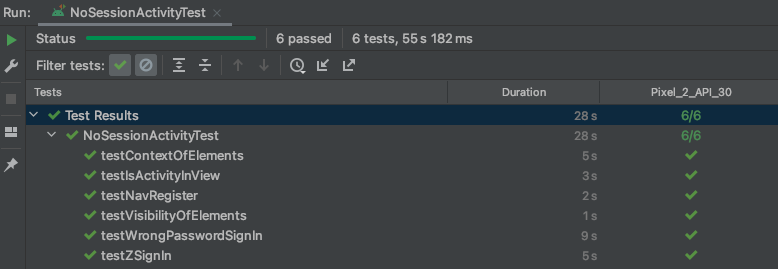
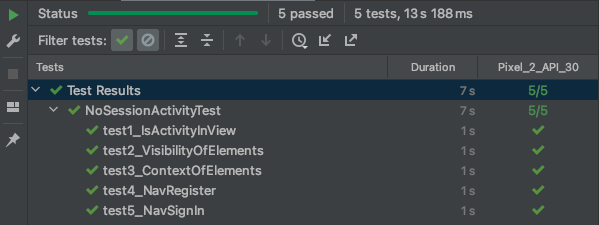
Modify UI tests

diff --git a/app/src/test/java/au/edu/anu/cecs/COMP6442GroupAssignment/HeatSpeechRemoveTest.java b/app/src/test/java/au/edu/anu/cecs/COMP6442GroupAssignment/HeatSpeechRemoveTest.java
@@ -1,8 +1,9 @@
 package au.edu.anu.cecs.COMP6442GroupAssignment;
+
+import static org.junit.Assert.assertEquals;
+
 import org.junit.BeforeClass;
 import org.junit.Test;
-
-import static org.junit.Assert.*;
 
 import au.edu.anu.cecs.COMP6442GroupAssignment.util.DataStructure.AVLTree;
 import au.edu.anu.cecs.COMP6442GroupAssignment.util.Parser.HateSpeechParser.Parser;
@@ -12,44 +13,44 @@ public class HeatSpeechRemoveTest {
     static AVLTree<String> swearwords;
 
     @BeforeClass
-    public static void init(){
+    public static void init() {
         swearwords = new AVLTree<>();
         swearwords.insert("fuck");
         swearwords.insert("shit");
         swearwords.insert("asshole");
         swearwords.insert("ass");
     }
+
     @Test
-    public void noMaskTest(){
+    public void noMaskTest() {
 
         String withoutHeatSpeech1 = "I am really happy!";
-        Parser parser1 = new Parser(new Tokenizer(swearwords,withoutHeatSpeech1));
-        assertEquals(withoutHeatSpeech1,parser1.parse());
-        String withoutHeatSpeech2= "Hey, how are you!";
-        Parser parser2 = new Parser(new Tokenizer(swearwords,withoutHeatSpeech2));
-        assertEquals(withoutHeatSpeech2,parser2.parse());
+        Parser parser1 = new Parser(new Tokenizer(swearwords, withoutHeatSpeech1));
+        assertEquals(withoutHeatSpeech1, parser1.parse());
+        String withoutHeatSpeech2 = "Hey, how are you!";
+        Parser parser2 = new Parser(new Tokenizer(swearwords, withoutHeatSpeech2));
+        assertEquals(withoutHeatSpeech2, parser2.parse());
     }
 
     @Test
-    public void MaskTest(){
+    public void MaskTest() {
         String HeatSpeech1 = "fuck you!";
         String result1 = "*** you!";
-        Parser parser1 = new Parser(new Tokenizer(swearwords,HeatSpeech1));
-        assertEquals(result1,parser1.parse());
-        String HeatSpeech2= "Hey, asshole";
+        Parser parser1 = new Parser(new Tokenizer(swearwords, HeatSpeech1));
+        assertEquals(result1, parser1.parse());
+        String HeatSpeech2 = "Hey, asshole";
         String result2 = "Hey, ***";
-        Parser parser2 = new Parser(new Tokenizer(swearwords,HeatSpeech2));
-        assertEquals(result2,parser2.parse());
+        Parser parser2 = new Parser(new Tokenizer(swearwords, HeatSpeech2));
+        assertEquals(result2, parser2.parse());
     }
 
-    @Test public void LongSentenceTest(){
+    @Test
+    public void LongSentenceTest() {
         String HeatSpeech1 = "Hey! you know what? I really wanna fuck you, you are just a piece of shit and I just think I am the best! ";
         String result1 = "Hey! you know what? I really wanna *** you, you are just a piece of *** and I just think I am the best! ";
-        Parser parser1 = new Parser(new Tokenizer(swearwords,HeatSpeech1));
-        assertEquals(result1,parser1.parse());
+        Parser parser1 = new Parser(new Tokenizer(swearwords, HeatSpeech1));
+        assertEquals(result1, parser1.parse());
     }
-
-
 
 
 }

diff --git a/app/src/androidTest/java/au/edu/anu/cecs/COMP6442GroupAssignment/NoSessionActivityTest.java b/app/src/androidTest/java/au/edu/anu/cecs/COMP6442GroupAssignment/NoSessionActivityTest.java
@@ -42,12 +42,12 @@ public class NoSessionActivityTest {
     }
 
     @Test
-    public void testIsActivityInView() {
+    public void test1_IsActivityInView() {
         onView(withId(R.id.no_session)).check(matches(isDisplayed()));
     }
 
     @Test
-    public void testVisibilityOfElements() {
+    public void test2_VisibilityOfElements() {
         int[] ids = new int[]{R.id.imageView2, R.id.textView, R.id.main_sign_in, R.id.main_register,
                 R.id.textView4};
 
@@ -57,7 +57,7 @@ public class NoSessionActivityTest {
     }
 
     @Test
-    public void testContextOfElements() {
+    public void test3_ContextOfElements() {
         onView(withId(R.id.textView)).check(matches(withText(R.string.welcome_to)));
         onView(withId(R.id.main_sign_in)).check(matches(withText(R.string.sign_in)));
         onView(withId(R.id.main_register)).check(matches(withText(R.string.register)));
@@ -65,39 +65,14 @@ public class NoSessionActivityTest {
     }
 
     @Test
-    public void testWrongPasswordSignIn() {
-        onView(withId(R.id.main_sign_in)).perform(click());
-        onView(withId(R.id.activity_sign_in)).check(matches(isDisplayed()));
-
-        onView(withId(R.id.email_signin)).check(matches(withHint(R.string.email)));
-        onView(withId(R.id.password_signin)).check(matches(withHint(R.string.password)));
-        onView(withId(R.id.signin)).check(matches(withText(R.string.sign_in)));
-
-        onView(withId(R.id.email_signin)).perform(typeText("qinyu.zhao@anu.edu.au"));
-        onView(withId(R.id.password_signin)).perform(typeText("123555")).perform(closeSoftKeyboard());
-        onView(withId(R.id.signin)).perform(click());
-
-        FirebaseUser currentUser = FirebaseAuth.getInstance().getCurrentUser();
-        assert currentUser == null;
-    }
-
-    @Test
-    public void testZSignIn() {
-        onView(withId(R.id.main_sign_in)).perform(click());
-        onView(withId(R.id.activity_sign_in)).check(matches(isDisplayed()));
-
-        onView(withId(R.id.email_signin)).check(matches(withHint(R.string.email)));
-        onView(withId(R.id.password_signin)).check(matches(withHint(R.string.password)));
-        onView(withId(R.id.signin)).check(matches(withText(R.string.sign_in)));
-
-        onView(withId(R.id.email_signin)).perform(typeText("qinyu.zhao@anu.edu.au"));
-        onView(withId(R.id.password_signin)).perform(typeText("123456")).perform(closeSoftKeyboard());
-        onView(withId(R.id.signin)).perform(click());
-    }
-
-    @Test
-    public void testNavRegister() {
+    public void test4_NavRegister() {
         onView(withId(R.id.main_register)).perform(click());
         onView(withId(R.id.register)).check(matches(isDisplayed()));
+    }
+
+    @Test
+    public void test5_NavSignIn() {
+        onView(withId(R.id.main_sign_in)).perform(click());
+        onView(withId(R.id.activity_sign_in)).check(matches(isDisplayed()));
     }
 }

diff --git a/app/src/androidTest/java/au/edu/anu/cecs/COMP6442GroupAssignment/SessionActivityTest.java b/app/src/androidTest/java/au/edu/anu/cecs/COMP6442GroupAssignment/SessionActivityTest.java
@@ -22,13 +22,17 @@ import com.google.firebase.auth.FirebaseAuth;
 import com.google.firebase.auth.FirebaseUser;
 
 import org.hamcrest.Matcher;
+import org.junit.After;
 import org.junit.Before;
+import org.junit.FixMethodOrder;
 import org.junit.Rule;
 import org.junit.Test;
 import org.junit.runner.RunWith;
+import org.junit.runners.MethodSorters;
 
 @LargeTest
 @RunWith(AndroidJUnit4.class)
+@FixMethodOrder(MethodSorters.NAME_ASCENDING)
 public class SessionActivityTest {
     @Rule
     public ActivityScenarioRule<MainActivity> activityRule
@@ -47,12 +51,12 @@ public class SessionActivityTest {
     }
 
     @Test
-    public void testIsActivityInView() {
+    public void test1_IsActivityInView() {
         onView(withId(R.id.session)).check(matches(isDisplayed()));
     }
 
     @Test
-    public void testVisibilityOfElements() {
+    public void test2_VisibilityOfElements() {
         int[] ids = new int[]{R.id.viewPager, R.id.tabLayout};
 
         for (int id : ids) {
@@ -63,20 +67,30 @@ public class SessionActivityTest {
     }
 
     @Test
-    public void testNavToFriends() {
+    public void test3_NavToFriends() {
         onView(withId(R.id.tabLayout)).perform(selectTabAtPosition(1));
         onView(withId(R.id.layout_friend)).check(matches(isDisplayed()));
     }
 
     @Test
-    public void testNavToChats() {
+    public void test4_NavToChats() {
         onView(withId(R.id.tabLayout)).perform(selectTabAtPosition(2));
-        onView(withId(R.id.chatRecycleView)).check(matches(isDisplayed()));
+        try {
+            Thread.sleep(100);
+        } catch (Exception ignored) {
+
+        }
+        onView(withId(R.id.layout_chat)).check(matches(isDisplayed()));
     }
 
     @Test
-    public void testNavToProfiles() {
+    public void test5_NavToProfiles() {
         onView(withId(R.id.tabLayout)).perform(selectTabAtPosition(3));
+        try {
+            Thread.sleep(100);
+        } catch (Exception ignored) {
+
+        }
         onView(withId(R.id.layout_profile)).check(matches(isDisplayed()));
     }
 

diff --git a/app/src/androidTest/java/au/edu/anu/cecs/COMP6442GroupAssignment/RegisterActivityTest.java b/app/src/androidTest/java/au/edu/anu/cecs/COMP6442GroupAssignment/RegisterActivityTest.java
@@ -13,12 +13,15 @@ import androidx.test.ext.junit.runners.AndroidJUnit4;
 import androidx.test.filters.SmallTest;
 
 import org.junit.Before;
+import org.junit.FixMethodOrder;
 import org.junit.Rule;
 import org.junit.Test;
 import org.junit.runner.RunWith;
+import org.junit.runners.MethodSorters;
 
 @SmallTest
 @RunWith(AndroidJUnit4.class)
+@FixMethodOrder(MethodSorters.NAME_ASCENDING)
 public class RegisterActivityTest {
     private String stringToBetyped;
 
@@ -33,12 +36,12 @@ public class RegisterActivityTest {
     }
 
     @Test
-    public void testIsActivityInView() {
+    public void test1_IsActivityInView() {
         onView(withId(R.id.register)).check(matches(isDisplayed()));
     }
 
     @Test
-    public void testVisibilityOfElements() {
+    public void test2_VisibilityOfElements() {
         int[] ids = new int[]{R.id.password_signup, R.id.confirm_signup, R.id.email_signup, R.id.name_signup,
                 R.id.portrait_signup, R.id.signUp, R.id.intro_signup, R.id.selectImage_signup, R.id.friend_switch};
 
@@ -48,7 +51,7 @@ public class RegisterActivityTest {
     }
 
     @Test
-    public void testContextOfElements() {
+    public void test3_ContextOfElements() {
         onView(withId(R.id.password_signup)).check(matches(withHint(R.string.hintPassword)));
         onView(withId(R.id.confirm_signup)).check(matches(withHint(R.string.confirm_password)));
         onView(withId(R.id.email_signup)).check(matches(withHint(R.string.email)));
@@ -58,10 +61,5 @@ public class RegisterActivityTest {
         onView(withId(R.id.selectImage_signup)).check(matches(withText(R.string.select_image)));
         onView(withId(R.id.signUp)).check(matches(withText(R.string.Sign_up)));
         onView(withId(R.id.friend_switch)).check(matches(withText(R.string.friendSend)));
-    }
-
-    @Test
-    public void testIntent() {
-
     }
 }

diff --git a/app/src/main/java/au/edu/anu/cecs/COMP6442GroupAssignment/util/ViewPager/ProfileFragment.java b/app/src/main/java/au/edu/anu/cecs/COMP6442GroupAssignment/util/ViewPager/ProfileFragment.java
@@ -95,12 +95,13 @@ public class ProfileFragment extends Fragment {
             storageReference.child("portrait/" + currentUser.getUid()).getDownloadUrl().addOnSuccessListener(new OnSuccessListener<Uri>() {
                 @Override
                 public void onSuccess(Uri uri) {
-
-                    Glide.with(getContext())
-                            .load(uri.toString())
-                            .apply(options)
-                            .into(NowImage);
-                    userProfileDao.updatePortraitUploadedStatus();
+                    try {
+                        Glide.with(getContext())
+                                .load(uri.toString())
+                                .apply(options)
+                                .into(NowImage);
+                        userProfileDao.updatePortraitUploadedStatus();
+                    } catch (Exception ignore) {}
                 }
             }).addOnFailureListener(new OnFailureListener() {
                 @Override

diff --git a/app/src/main/java/au/edu/anu/cecs/COMP6442GroupAssignment/util/Adapter/FriendsAdapter.java b/app/src/main/java/au/edu/anu/cecs/COMP6442GroupAssignment/util/Adapter/FriendsAdapter.java
@@ -76,11 +76,14 @@ public class FriendsAdapter extends RecyclerView.Adapter<FriendsAdapter.ViewHold
             reference.child("portrait/"+friend.getUid()).getDownloadUrl().addOnSuccessListener(new OnSuccessListener<Uri>() {
                 @Override
                 public void onSuccess(Uri uri) {
+                    try {
+                        Glide.with(context)
+                                .load(uri.toString())
+                                .apply(options)
+                                .into(holder.imageView);
+                    } catch (Exception ignore) {
 
-                    Glide.with(context)
-                            .load(uri.toString())
-                            .apply(options)
-                            .into(holder.imageView);
+                    }
                 }
             }).addOnFailureListener(new OnFailureListener() {
                 @Override

diff --git a/app/src/main/java/au/edu/anu/cecs/COMP6442GroupAssignment/util/Adapter/ChatsAdapter.java b/app/src/main/java/au/edu/anu/cecs/COMP6442GroupAssignment/util/Adapter/ChatsAdapter.java
@@ -84,11 +84,13 @@ public class ChatsAdapter extends RecyclerView.Adapter<ChatsAdapter.ViewHolder> 
             reference.child("portrait/" + key).getDownloadUrl().addOnSuccessListener(new OnSuccessListener<Uri>() {
                 @Override
                 public void onSuccess(Uri uri) {
-
-                    Glide.with(context)
-                            .load(uri.toString())
-                            .apply(options)
-                            .into(holder.imageView);
+                    try {
+                        Glide.with(context)
+                                .load(uri.toString())
+                                .apply(options)
+                                .into(holder.imageView);
+                    } catch (Exception ignore) {
+                    }
                 }
             }).addOnFailureListener(new OnFailureListener() {
                 @Override

diff --git a/app/src/main/java/au/edu/anu/cecs/COMP6442GroupAssignment/util/UserManager.java b/app/src/main/java/au/edu/anu/cecs/COMP6442GroupAssignment/util/UserManager.java
@@ -68,7 +68,10 @@ public class UserManager {
     }
 
     public boolean getPorFromID(String id) {
-        return id_por_map.get(id);
+        if (id_por_map.containsKey(id))
+            return id_por_map.get(id);
+        else
+            return false;
     }
 
     public boolean emailIsValid(String email) {

diff --git a/Report.md b/Report.md
@@ -447,13 +447,13 @@ Our Test test all utility classes that are not interacted with UI(activities) an
 
   Test whether the UI is displayed correctly when a guest is registering.
 
-  ![register](assets/register_act_test.png)
+  ![register_act](assets/register_act_test.png)
 
 - UI Test 3. Session test
 
   Test whether the UI is displayed correctly when there is a session.
 
-  ![register](assets/register_act_test.png)
+  ![session_act](assets/session_act_test.png)
 
 ## Implemented Features
 
